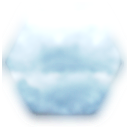
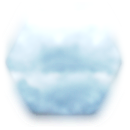
Semi-Visible and Fog Graphical Changes

Changed region(s): [[0.0, 0.4, 0.0615, 0.5846], [0.9231, 0.4615, 0.9846, 0.5538]]

diff --git a/src/main/game/gameboard/SimpleTileUpdater.java b/src/main/game/gameboard/SimpleTileUpdater.java
@@ -28,8 +28,15 @@ public final class SimpleTileUpdater {
 				setSurroundingVisible(structure, simpleTiles);
 			}
 		}
-		updateVisiblties(new Location(1, 21), 50, simpleTiles);
-		//setVisible(new Location(12, 20), 1, simpleTiles);
+		updateVisiblties(new Location(12, 20), 5, simpleTiles);
+		simpleTiles[12][20].setSemiIfVisible();
+		simpleTiles[13][20].setSemiIfVisible();
+		simpleTiles[14][20].setSemiIfVisible();
+		simpleTiles[15][20].setSemiIfVisible();
+		simpleTiles[12][21].setSemiIfVisible();
+		simpleTiles[13][21].setSemiIfVisible();
+		simpleTiles[14][21].setSemiIfVisible();
+		simpleTiles[15][21].setSemiIfVisible();
 		return simpleTiles;
 	}
 

diff --git a/src/main/view/game/drawers/TileDrawer.java b/src/main/view/game/drawers/TileDrawer.java
@@ -53,7 +53,7 @@ public class TileDrawer {
                 break;
             }
     		if (visibility == TileVisibilityEnum.SEMI_VISIBLE) {
-    			gamePanel.drawStaticTileElement(p, "semiVisible");
+    			gamePanel.drawStaticTileElement(p, "TILE_SEMI_VISIBLE");
     		}
     	}
     }
